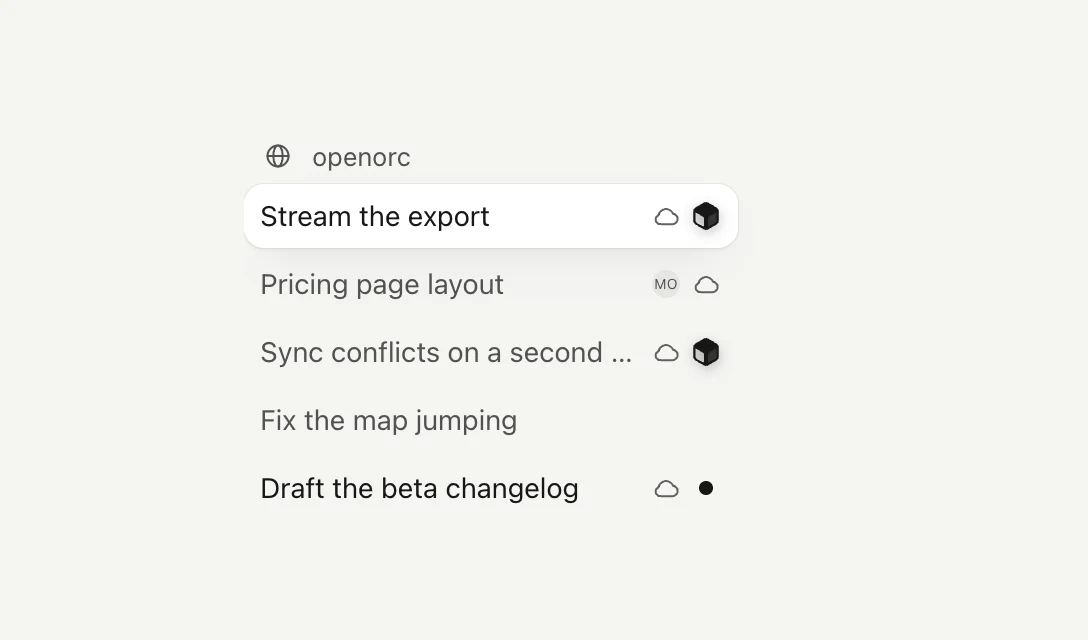
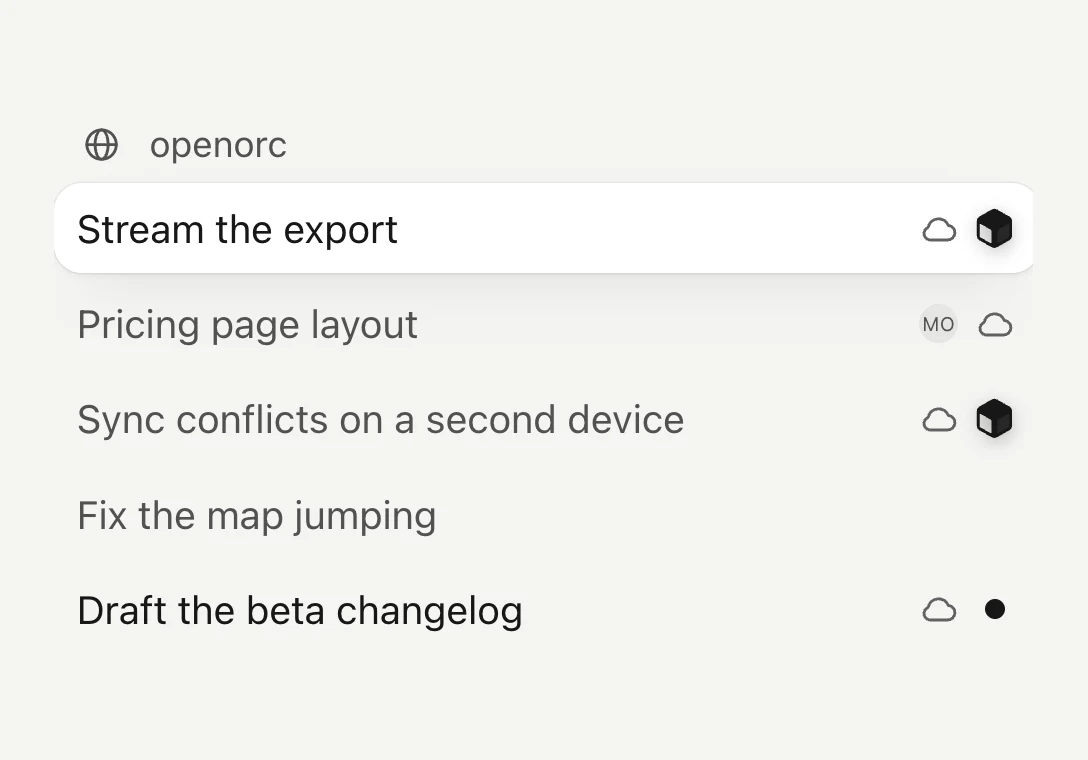
fix(desktop): What's new keeps its close at the sheet's corner and fills each picture
The close sits 16px into the sheet's top corner as on every other sheet, and
every picture keeps that corner clear. The thread list shows larger and fills
its picture, the phone shows its list live with the Mac asleep, and the three
pictures share one stage. Each step's title and line have keys of their own,
so a step's words no longer stay behind when the next one comes.

diff --git a/apps/desktop/src/renderer/src/styles/whats-new.css b/apps/desktop/src/renderer/src/styles/whats-new.css
@@ -1,12 +1,14 @@
 /* What's new after an update: a 560px sheet, its step's picture set 8px into it at the sheet's radius less that, then
-   the step's title with the close beside it and its line, then the step dots, the way to try it and Next. Every step
-   keeps the sheet's height. */
+   the step's title and line, then the step dots, the way to try it and Next. The close sits where every sheet has it,
+   16px into the top corner, on the picture's corner, which every picture keeps clear. Every step keeps the sheet's
+   height; a short window shortens the pictures, never the controls. */
 .whats-new {
   width: 560px;
 }
 .whats-new-picture {
   margin: 8px 8px 0;
-  height: 320px;
+  /* The sheet's 75vh, less the 156px of words and controls under the picture. */
+  height: min(380px, calc(75vh - 156px));
   overflow: hidden;
   border-radius: calc(var(--radius-3xl) - 8px);
 }
@@ -14,15 +16,16 @@
   width: 100%;
   height: 100%;
   object-fit: cover;
+  object-position: top;
 }
-.whats-new-head {
-  display: flex;
-  align-items: center;
-  justify-content: space-between;
-  gap: 12px;
-  padding: 14px 16px 0 20px;
+.whats-new-close {
+  position: absolute;
+  top: 16px;
+  right: 16px;
+  background: var(--surface);
 }
 .whats-new-title {
+  padding: 18px 20px 0;
   color: var(--ink);
   font-size: var(--text-md);
   line-height: 20px;

diff --git a/apps/desktop/src/renderer/src/components/WhatsNew.tsx b/apps/desktop/src/renderer/src/components/WhatsNew.tsx
@@ -109,17 +109,15 @@ export function WhatsNewSheet({ open, onClose }: { open: boolean; onClose: () =>
             <img src={step.light} alt={step.alt} className="dark:hidden" />
             <img src={step.dark} alt={step.alt} className="hidden dark:block" />
           </div>
-          <div className="whats-new-head">
-            <BaseDialog.Title key={step.id} className="whats-new-title motion-arrive">
-              {step.title}
-            </BaseDialog.Title>
-            <BaseDialog.Close render={<IconButton aria-label="Close" size="sm" />}>
-              <X size={15} />
-            </BaseDialog.Close>
-          </div>
-          <BaseDialog.Description key={step.id} className="whats-new-line motion-arrive">
+          <BaseDialog.Title key={`title:${step.id}`} className="whats-new-title motion-arrive">
+            {step.title}
+          </BaseDialog.Title>
+          <BaseDialog.Description key={`line:${step.id}`} className="whats-new-line motion-arrive">
             {step.line}
           </BaseDialog.Description>
+          <BaseDialog.Close render={<IconButton aria-label="Close" size="sm" className="whats-new-close" />}>
+            <X size={15} />
+          </BaseDialog.Close>
           <div className="whats-new-foot">
             <div className="whats-new-dots">
               {steps.map((each, at) => (

diff --git a/apps/desktop/src/renderer/src/components/WhatsNew.test.tsx b/apps/desktop/src/renderer/src/components/WhatsNew.test.tsx
@@ -57,6 +57,7 @@ it("goes through each step with Next and closes for good with Done", () => {
   render(<WhatsNew />);
   fireEvent.click(screen.getByRole("button", { name: "Next" }));
   expect(screen.getByRole("dialog", { name: "Work with your team" })).toBeTruthy();
+  expect(screen.queryByText("Threads that keep working with your Mac closed")).toBeNull();
   fireEvent.click(screen.getByRole("button", { name: "Your cloud threads on your phone" }));
   expect(screen.getByRole("dialog", { name: "Your cloud threads on your phone" })).toBeTruthy();
   fireEvent.click(screen.getByRole("button", { name: "Done" }));
